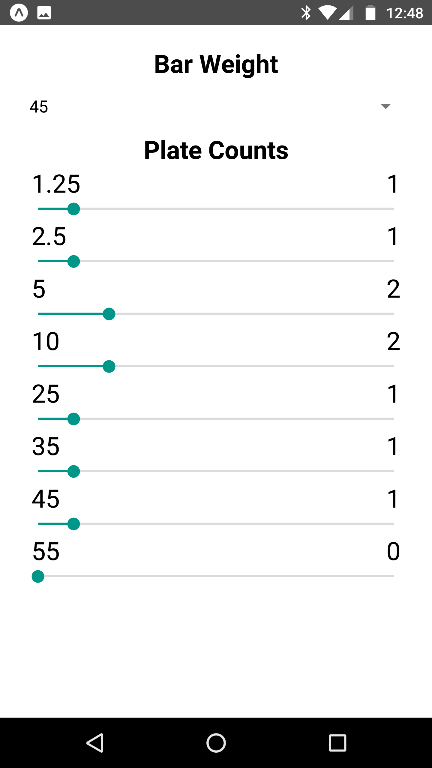
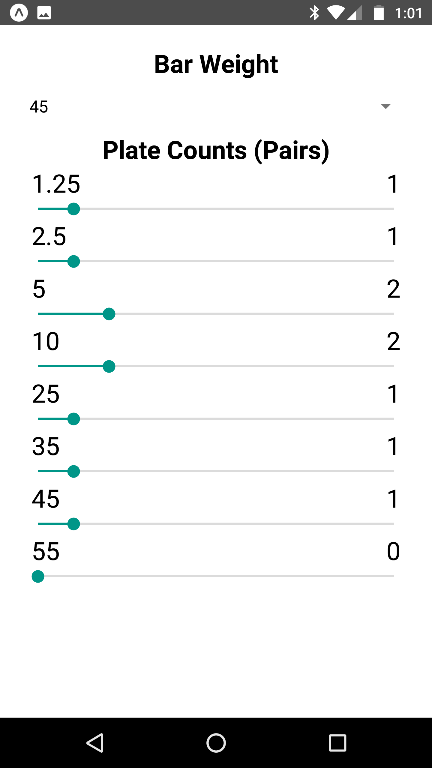
Update title of plate config section, update screenshot

Changed region(s): [[0.2407, 0.1562, 0.7824, 0.2188], [0.6921, 0.0, 0.9931, 0.0312]]

diff --git a/components/Settings/index.js b/components/Settings/index.js
@@ -37,7 +37,7 @@ class Settings extends Component {
                             handleBarUpdate={this.props.handleBarUpdate}
                         />
 
-                        <Text style={styles.heading}>Plate Counts</Text>
+                        <Text style={styles.heading}>Plate Counts (Pairs)</Text>
                         {this.props.plates.map(p => 
                             <PlateSlider 
                                 key={p.key} 
